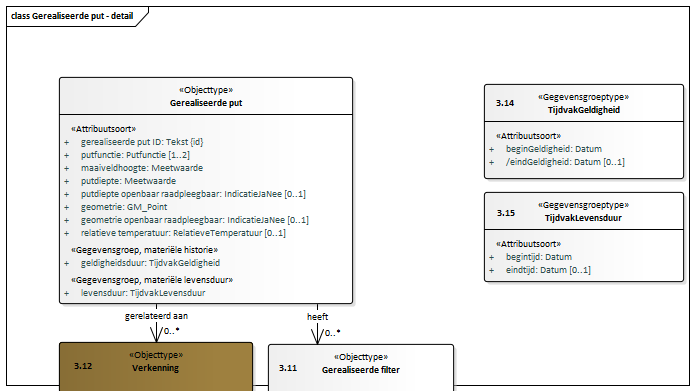
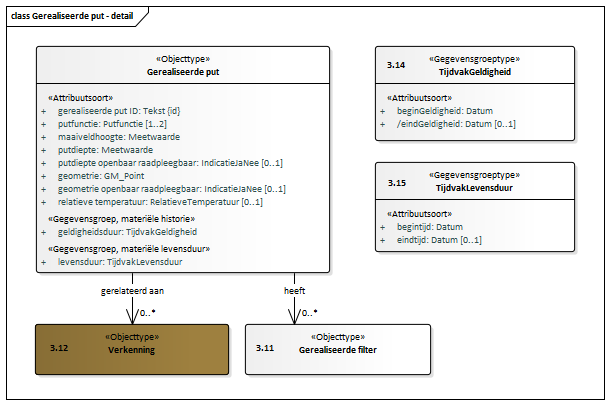
Conceptualmodel-GrondwatergebruikGUFconceptueel-0.992-3-20210628-20220314-113353

Changed region(s): [[0.0, 0.0, 0.9967, 1.0]]

diff --git a/data/GUF-cat.msword.html b/data/GUF-cat.msword.html
@@ -15,7 +15,7 @@
    <body>
       <p>Conceptual model/Grondwatergebruik (GUF) conceptueel/20210628</p>
       <p>Imvertor: 1.65.4</p>
-      <p>Model release: Conceptualmodel-GrondwatergebruikGUFconceptueel-0.992-3-20210628-20220314-111917</p>
+      <p>Model release: Conceptualmodel-GrondwatergebruikGUFconceptueel-0.992-3-20210628-20220314-113353</p>
       <hr>
       <section>
          <h1>Artikel 1 Definitie van registratieobject, entiteiten en attributen</h1>
@@ -4023,7 +4023,7 @@
                   </section>
                </section><a class="anchor" id="graph_EAID_F75BA1C9_02EB_48e6_B9A8_A018120E2279"></a><a class="anchor" id="global_class_Model_Gerealiseerdeput"></a><section id="global_class_Model_Gerealiseerdeput">
                   <h3>   Gerealiseerde put</h3>
-                  <div class="imageinfo "><img src="Images/EAID_9891EB15_9DE2_40c7_99BC_F2D1752DFAA5.png" usemap="#imagemap-EAID_9891EB15_9DE2_40c7_99BC_F2D1752DFAA5" alt="Diagram "><map name="imagemap-EAID_9891EB15_9DE2_40c7_99BC_F2D1752DFAA5"><area shape="rect" alt="Verkenning" coords="59,342,253,393" href="#graph_EAID_1013D8B2_A4E7_456c_B8BD_D8785259B572"><area shape="rect" alt="TijdvakLevensduur" coords="484,192,684,282" href="#graph_EAID_7C14BEF4_6FA0_4e19_9FB4_DFDD995B1187"><area shape="rect" alt="TijdvakGeldigheid" coords="484,84,684,179" href="#graph_EAID_CD1A77A6_6028_4ca0_B78A_46792498A185"><area shape="rect" alt="Gerealiseerde filter" coords="268,344,454,395" href="#graph_EAID_9D151445_53ED_4738_9920_071518BB50C1"><area shape="rect" alt="Gerealiseerde put" coords="59,77,353,304" href="#graph_EAID_F75BA1C9_02EB_48e6_B9A8_A018120E2279"></map><p><b></b></p>
+                  <div class="imageinfo "><img src="Images/EAID_9891EB15_9DE2_40c7_99BC_F2D1752DFAA5.png" usemap="#imagemap-EAID_9891EB15_9DE2_40c7_99BC_F2D1752DFAA5" alt="Diagram "><map name="imagemap-EAID_9891EB15_9DE2_40c7_99BC_F2D1752DFAA5"><area shape="rect" alt="Verkenning" coords="35,324,229,375" href="#graph_EAID_1013D8B2_A4E7_456c_B8BD_D8785259B572"><area shape="rect" alt="TijdvakLevensduur" coords="375,162,575,252" href="#graph_EAID_7C14BEF4_6FA0_4e19_9FB4_DFDD995B1187"><area shape="rect" alt="TijdvakGeldigheid" coords="375,46,575,141" href="#graph_EAID_CD1A77A6_6028_4ca0_B78A_46792498A185"><area shape="rect" alt="Gerealiseerde filter" coords="245,324,431,375" href="#graph_EAID_9D151445_53ED_4738_9920_071518BB50C1"><area shape="rect" alt="Gerealiseerde put" coords="36,46,330,273" href="#graph_EAID_F75BA1C9_02EB_48e6_B9A8_A018120E2279"></map><p><b></b></p>
                   </div>
                   <table style="width: 100%;">
                      <colgroup style="width: 30%;"></colgroup>
@@ -4731,7 +4731,7 @@
                   </section>
                </section><a class="anchor" id="graph_EAID_9D151445_53ED_4738_9920_071518BB50C1"></a><a class="anchor" id="global_class_Model_Gerealiseerdefilter"></a><section id="global_class_Model_Gerealiseerdefilter">
                   <h3>   Gerealiseerde filter</h3>
-                  <div class="imageinfo "><img src="Images/EAID_4BDFA35D_949F_4c88_8AA2_727575C72A66.png" usemap="#imagemap-EAID_4BDFA35D_949F_4c88_8AA2_727575C72A66" alt="Diagram "><map name="imagemap-EAID_4BDFA35D_949F_4c88_8AA2_727575C72A66"><area shape="rect" alt="TijdvakLevensduur" coords="512,194,715,282" href="#graph_EAID_7C14BEF4_6FA0_4e19_9FB4_DFDD995B1187"><area shape="rect" alt="TijdvakGeldigheid" coords="513,86,716,181" href="#graph_EAID_CD1A77A6_6028_4ca0_B78A_46792498A185"><area shape="rect" alt="PuntOfLijn" coords="371,86,487,181" href="#graph_EAID_EEE59F70_E837_4b60_B875_51B6326B93C0"><area shape="rect" alt="Gerealiseerde filter" coords="77,86,381,300" href="#graph_EAID_9D151445_53ED_4738_9920_071518BB50C1"></map><p><b></b></p>
+                  <div class="imageinfo "><img src="Images/EAID_4BDFA35D_949F_4c88_8AA2_727575C72A66.png" usemap="#imagemap-EAID_4BDFA35D_949F_4c88_8AA2_727575C72A66" alt="Diagram "><map name="imagemap-EAID_4BDFA35D_949F_4c88_8AA2_727575C72A66"><area shape="rect" alt="TijdvakLevensduur" coords="391,286,594,374" href="#graph_EAID_7C14BEF4_6FA0_4e19_9FB4_DFDD995B1187"><area shape="rect" alt="TijdvakGeldigheid" coords="391,166,594,261" href="#graph_EAID_CD1A77A6_6028_4ca0_B78A_46792498A185"><area shape="rect" alt="PuntOfLijn" coords="391,46,507,141" href="#graph_EAID_EEE59F70_E837_4b60_B875_51B6326B93C0"><area shape="rect" alt="Gerealiseerde filter" coords="35,46,339,260" href="#graph_EAID_9D151445_53ED_4738_9920_071518BB50C1"></map><p><b></b></p>
                   </div>
                   <table style="width: 100%;">
                      <colgroup style="width: 30%;"></colgroup>

diff --git a/data/GUF-cat.respec.html b/data/GUF-cat.respec.html
@@ -3999,7 +3999,7 @@
          </section>
       </section><a class="anchor" id="graph_EAID_F75BA1C9_02EB_48e6_B9A8_A018120E2279"></a><a class="anchor" id="global_class_Model_Gerealiseerdeput"></a><section id="global_class_Model_Gerealiseerdeput">
          <h3>   Gerealiseerde put</h3>
-         <div class="imageinfo "><img src="data/Images/EAID_9891EB15_9DE2_40c7_99BC_F2D1752DFAA5.png" usemap="#imagemap-EAID_9891EB15_9DE2_40c7_99BC_F2D1752DFAA5" alt="Diagram "><map name="imagemap-EAID_9891EB15_9DE2_40c7_99BC_F2D1752DFAA5"><area shape="rect" alt="Verkenning" coords="59,342,253,393" href="#graph_EAID_1013D8B2_A4E7_456c_B8BD_D8785259B572"><area shape="rect" alt="TijdvakLevensduur" coords="484,192,684,282" href="#graph_EAID_7C14BEF4_6FA0_4e19_9FB4_DFDD995B1187"><area shape="rect" alt="TijdvakGeldigheid" coords="484,84,684,179" href="#graph_EAID_CD1A77A6_6028_4ca0_B78A_46792498A185"><area shape="rect" alt="Gerealiseerde filter" coords="268,344,454,395" href="#graph_EAID_9D151445_53ED_4738_9920_071518BB50C1"><area shape="rect" alt="Gerealiseerde put" coords="59,77,353,304" href="#graph_EAID_F75BA1C9_02EB_48e6_B9A8_A018120E2279"></map><p><b></b></p>
+         <div class="imageinfo "><img src="data/Images/EAID_9891EB15_9DE2_40c7_99BC_F2D1752DFAA5.png" usemap="#imagemap-EAID_9891EB15_9DE2_40c7_99BC_F2D1752DFAA5" alt="Diagram "><map name="imagemap-EAID_9891EB15_9DE2_40c7_99BC_F2D1752DFAA5"><area shape="rect" alt="Verkenning" coords="35,324,229,375" href="#graph_EAID_1013D8B2_A4E7_456c_B8BD_D8785259B572"><area shape="rect" alt="TijdvakLevensduur" coords="375,162,575,252" href="#graph_EAID_7C14BEF4_6FA0_4e19_9FB4_DFDD995B1187"><area shape="rect" alt="TijdvakGeldigheid" coords="375,46,575,141" href="#graph_EAID_CD1A77A6_6028_4ca0_B78A_46792498A185"><area shape="rect" alt="Gerealiseerde filter" coords="245,324,431,375" href="#graph_EAID_9D151445_53ED_4738_9920_071518BB50C1"><area shape="rect" alt="Gerealiseerde put" coords="36,46,330,273" href="#graph_EAID_F75BA1C9_02EB_48e6_B9A8_A018120E2279"></map><p><b></b></p>
          </div>
          <table style="width: 100%;">
             <colgroup style="width: 30%;"></colgroup>
@@ -4707,7 +4707,7 @@
          </section>
       </section><a class="anchor" id="graph_EAID_9D151445_53ED_4738_9920_071518BB50C1"></a><a class="anchor" id="global_class_Model_Gerealiseerdefilter"></a><section id="global_class_Model_Gerealiseerdefilter">
          <h3>   Gerealiseerde filter</h3>
-         <div class="imageinfo "><img src="data/Images/EAID_4BDFA35D_949F_4c88_8AA2_727575C72A66.png" usemap="#imagemap-EAID_4BDFA35D_949F_4c88_8AA2_727575C72A66" alt="Diagram "><map name="imagemap-EAID_4BDFA35D_949F_4c88_8AA2_727575C72A66"><area shape="rect" alt="TijdvakLevensduur" coords="512,194,715,282" href="#graph_EAID_7C14BEF4_6FA0_4e19_9FB4_DFDD995B1187"><area shape="rect" alt="TijdvakGeldigheid" coords="513,86,716,181" href="#graph_EAID_CD1A77A6_6028_4ca0_B78A_46792498A185"><area shape="rect" alt="PuntOfLijn" coords="371,86,487,181" href="#graph_EAID_EEE59F70_E837_4b60_B875_51B6326B93C0"><area shape="rect" alt="Gerealiseerde filter" coords="77,86,381,300" href="#graph_EAID_9D151445_53ED_4738_9920_071518BB50C1"></map><p><b></b></p>
+         <div class="imageinfo "><img src="data/Images/EAID_4BDFA35D_949F_4c88_8AA2_727575C72A66.png" usemap="#imagemap-EAID_4BDFA35D_949F_4c88_8AA2_727575C72A66" alt="Diagram "><map name="imagemap-EAID_4BDFA35D_949F_4c88_8AA2_727575C72A66"><area shape="rect" alt="TijdvakLevensduur" coords="391,286,594,374" href="#graph_EAID_7C14BEF4_6FA0_4e19_9FB4_DFDD995B1187"><area shape="rect" alt="TijdvakGeldigheid" coords="391,166,594,261" href="#graph_EAID_CD1A77A6_6028_4ca0_B78A_46792498A185"><area shape="rect" alt="PuntOfLijn" coords="391,46,507,141" href="#graph_EAID_EEE59F70_E837_4b60_B875_51B6326B93C0"><area shape="rect" alt="Gerealiseerde filter" coords="35,46,339,260" href="#graph_EAID_9D151445_53ED_4738_9920_071518BB50C1"></map><p><b></b></p>
          </div>
          <table style="width: 100%;">
             <colgroup style="width: 30%;"></colgroup>
